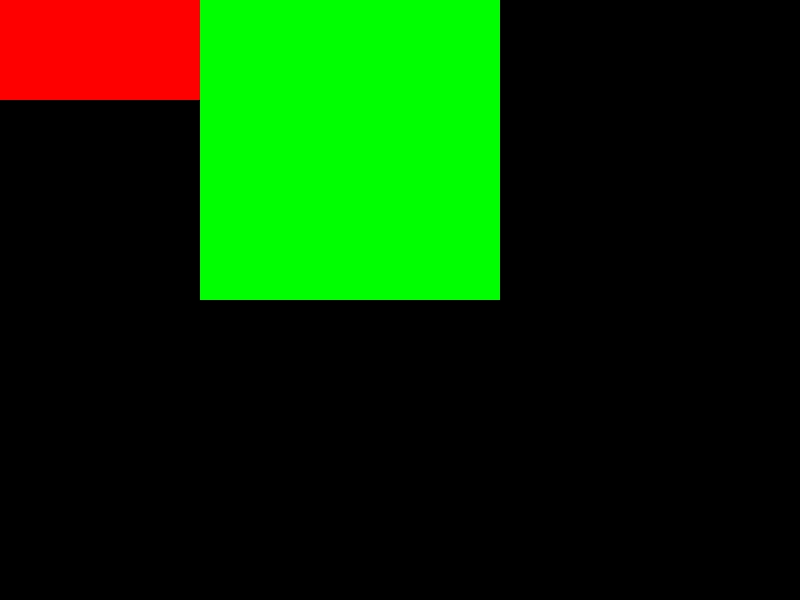
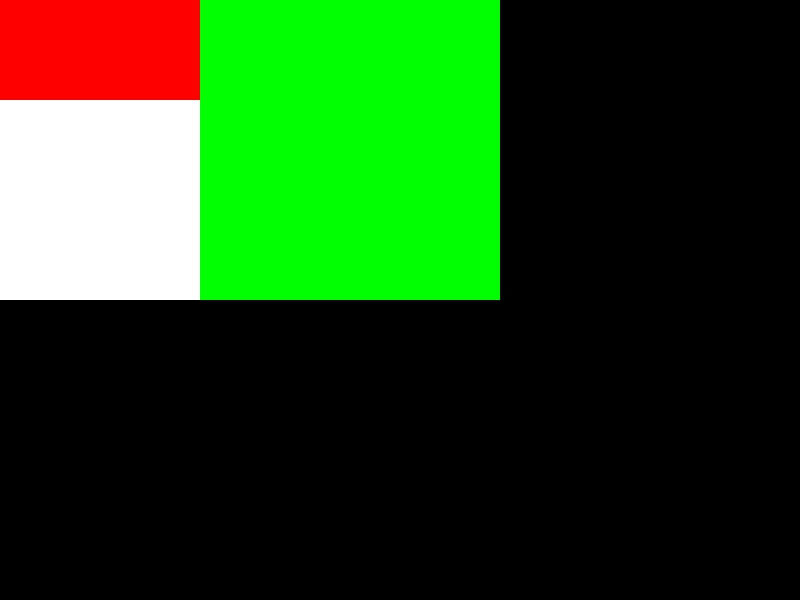
绘制DOM树

Changed region(s): [[0.0, 0.15, 0.25, 0.51]]

diff --git a/week_1_2_3_how_brower_work/lesson10_client.js b/week_1_2_3_how_brower_work/lesson10_client.js
@@ -217,8 +217,9 @@ void async function () {
   let dom = parseHTML(response.body);
 
   let viewport = images(800, 600);
-  render(viewport, dom.children[0].children[3].children[1].children[1]);
-  render(viewport, dom.children[0].children[3].children[1].children[3]);
+  // render(viewport, dom.children[0].children[3].children[1].children[1]);
+  // render(viewport, dom.children[0].children[3].children[1].children[3]);
+  render(viewport, dom);
   viewport.save('viewport.jpg');
   // console.log(JSON.stringify(dom, null, "  "));
   // console.log('');

diff --git a/week_1_2_3_how_brower_work/week3_render.js b/week_1_2_3_how_brower_work/week3_render.js
@@ -11,6 +11,11 @@ function render(viewport, element) {
       viewport.draw(img, element.style.left || 0, element.style.top || 0);
     }
   }
+  if (element.children) {
+    for (let child of element.children) {
+      render(viewport, child);
+    }
+  }
 }
 
 module.exports = render;
